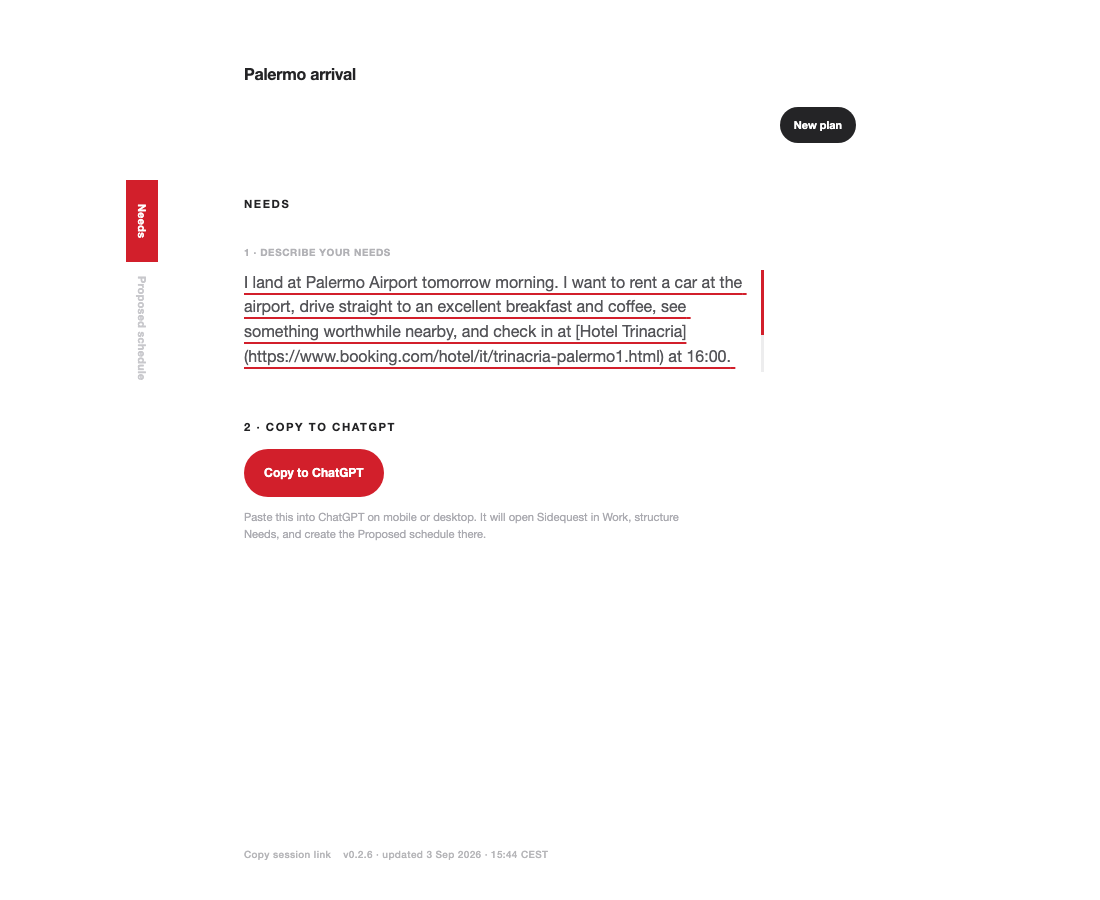
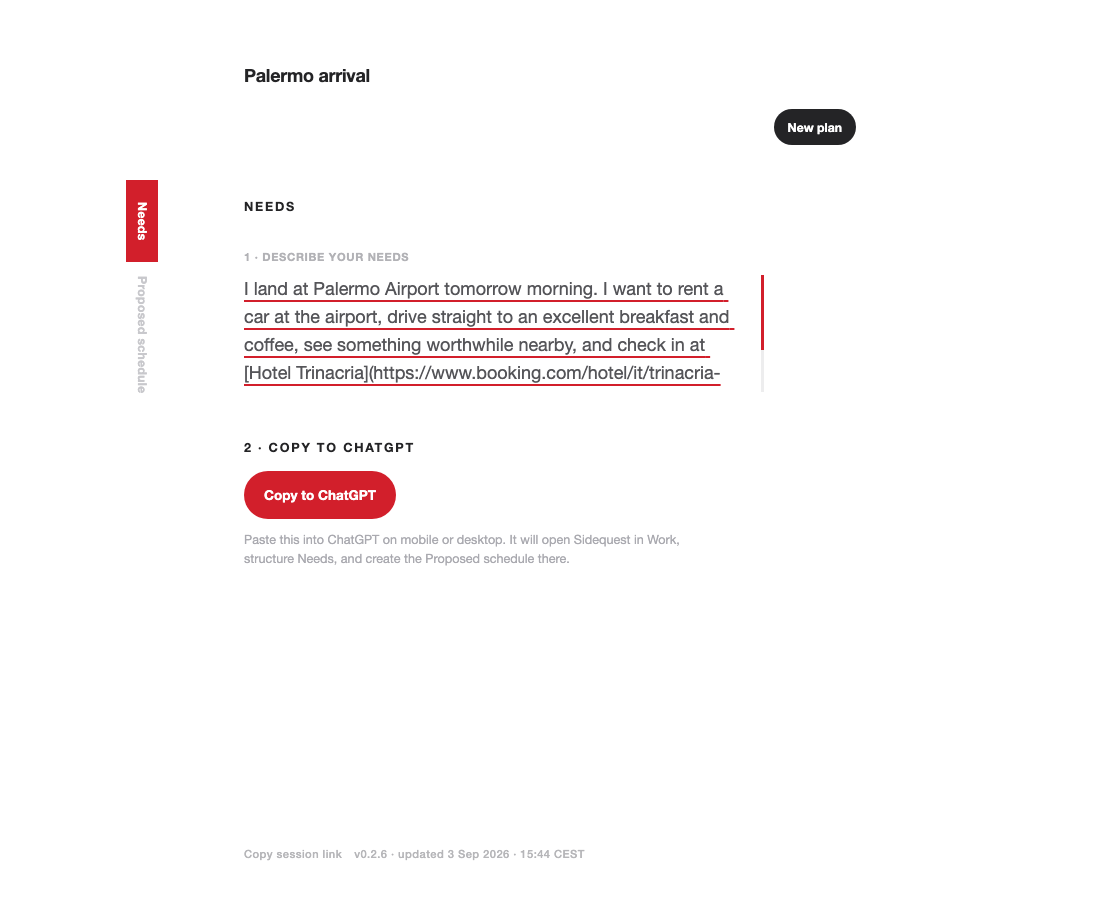
fix: enforce prompt language and scale desktop type

diff --git a/src/copy.ts b/src/copy.ts
@@ -39,10 +39,12 @@ export const COPY = {
     "Example: I land in Palermo tomorrow morning. Find a rental car, great breakfast and coffee, one nearby sight, parking, and get me to my hotel by 16:00.",
   planningInstruction:
     "Your only goal is to create the most sensible plan that satisfies the person's Needs as completely as possible. If essential information is missing, ask concise clarifying questions before writing. Otherwise, if the snapshot contains needs, treat them as the current user-edited source of truth; if it does not, extract concise Needs from the free-form brief. Infer and set the plan date and starting location from the request. Use the concise primary city or area where most schedule activity happens as currentLocation.label, while keeping its coordinates at the practical route starting point. Choose a short, specific, playful title for the generated plan rather than a generic destination/day label. Call update_day_context with needs, the retained brief, and replacePlan: true. Preserve locked commitments and mark non-negotiable needs as fixed. Research suitable places, then generate a Proposed schedule on the Sidequest board. Existing unlocked schedule items are replaceable suggestions, not requirements. After updating, give the person the exact clickable session link specified below and say they can edit Needs there for another iteration.",
+  promptLanguage:
+    "LANGUAGE REQUIREMENT: Use only the primary language of the person's free-form brief or Needs in the planning input for every message you send. Do not follow the language of the surrounding conversation, UI, inferred profile, or locale. Ignore earlier messages when choosing the response language. English planning input requires every message to be in English. Polish planning input requires every message to be in Polish. Use that language for all communication, including questions, progress updates, tool-use narration, and the final response. Do not narrate in one language while writing the plan in another. Keep proper names, source titles, and exact tool-returned values unchanged. Do not translate the exact session link.",
   promptOpen:
     "Open {url}, continue in Work, and use its Site Tools. Do not stop after explaining that Work or Site Tools are required; complete the requested changes on the Sidequest board, not only in chat.",
   promptProtocol:
-    "Call get_mission_state as soon as the page opens, before any write. The JSON below is the copied planning input. If the live board is blank, bootstrap it from the copied planning input using the live revision. Do not discard the copied brief just because its revision differs from a newly opened browser. If the live board already contains work for this request, preserve its current Needs and locked commitments. After each write, use the returned revision for the next write. Write all user-facing questions, progress summaries, and the final response in the same language as the person's free-form brief or latest Needs request. If the request mixes languages or is ambiguous, use the language of the person's latest message. Keep proper names, source titles, and exact tool-returned values unchanged. Every successful read or write returns a sessionUrl containing the complete current board. Do not translate the exact session link. After the final successful write, end your response with [Open updated Sidequest plan](sessionUrl), replacing sessionUrl with the exact returned URL. If no write was needed, use the URL returned by the final read. Do not finish without the clickable link.",
+    "Call get_mission_state as soon as the page opens, before any write. The JSON below is the copied planning input. If the live board is blank, bootstrap it from the copied planning input using the live revision. Do not discard the copied brief just because its revision differs from a newly opened browser. If the live board already contains work for this request, preserve its current Needs and locked commitments. After each write, use the returned revision for the next write. Every successful read or write returns a sessionUrl containing the complete current board. After the final successful write, end your response with [Open updated Sidequest plan](sessionUrl), replacing sessionUrl with the exact returned URL. If no write was needed, use the URL returned by the final read. Do not finish without the clickable link.",
   promptSnapshot: "Planning input at copy time:",
   release: "v0.2.6",
   updated: "updated",

diff --git a/src/copy.test.ts b/src/copy.test.ts
@@ -4,22 +4,34 @@ import { COPY, SIDEQUEST_URL } from "./copy"
 
 describe("English product copy", () => {
   it("keeps the agent handoff and mission positioning explicit", () => {
+    const allCopy = Object.values(COPY).join(" ")
+
     expect(COPY.tagline).toBe("Your day changed. Your plan should too.")
     expect(COPY.contextTitle).toBe("Needs")
     expect(COPY.planTitle).toBe("Proposed schedule")
     expect(COPY.planningBrief).toBe("1 · Describe your needs")
     expect(COPY.handoffTitle).toBe("2 · Copy to ChatGPT")
     expect(COPY.constraintsTitle).toBe("3 · Review and edit needs")
-    expect(Object.values(COPY).join(" ")).not.toContain("Must-haves")
+    expect(allCopy).not.toContain("Must-haves")
     expect(COPY.promptOpen).toContain("not only in chat")
     expect(COPY.promptOpen).toContain("continue in Work")
     expect(COPY.promptProtocol).toContain("If the live board is blank")
     expect(COPY.promptProtocol).toContain("sessionUrl")
     expect(COPY.promptProtocol).toContain("[Open updated Sidequest plan]")
-    expect(COPY.promptProtocol).toContain(
-      "same language as the person's free-form brief or latest Needs request",
+    expect(allCopy).toContain("LANGUAGE REQUIREMENT")
+    expect(allCopy).toContain(
+      "Do not follow the language of the surrounding conversation",
     )
-    expect(COPY.promptProtocol).toContain(
+    expect(allCopy).toContain(
+      "English planning input requires every message to be in English",
+    )
+    expect(allCopy).toContain(
+      "Polish planning input requires every message to be in Polish",
+    )
+    expect(allCopy).toContain(
+      "Do not narrate in one language while writing the plan in another",
+    )
+    expect(allCopy).toContain(
       "proper names, source titles, and exact tool-returned values unchanged",
     )
     expect(COPY.planningInstruction).toContain("generate a Proposed schedule")

diff --git a/e2e/sidequest.spec.ts b/e2e/sidequest.spec.ts
@@ -189,6 +189,9 @@ test("edits Needs and copies the current handoff", async ({ page }) => {
   await page.setViewportSize({ height: 900, width: 1100 })
   await page.goto("/")
   await waitForTools(page)
+  expect(
+    await page.evaluate(() => getComputedStyle(document.documentElement).fontSize),
+  ).toBe("18px")
   await expect(page.getByRole("tab", { name: "Proposed schedule" }))
     .toHaveAttribute("aria-disabled", "true")
   await selectExample(page, /Palermo arrival/)
@@ -243,6 +246,9 @@ test("edits Needs and copies the current handoff", async ({ page }) => {
   expect(initialCopyButtonStyle.height).toBeGreaterThanOrEqual(44)
   await page.screenshot({ fullPage: true, path: "artifacts/sidequest-brief.png" })
   await page.setViewportSize({ height: 844, width: 390 })
+  expect(
+    await page.evaluate(() => getComputedStyle(document.documentElement).fontSize),
+  ).toBe("16px")
   await expect
     .poll(() => page.evaluate(() => document.documentElement.scrollWidth))
     .toBeLessThanOrEqual(390)

diff --git a/src/mission-prompt.test.ts b/src/mission-prompt.test.ts
@@ -91,11 +91,16 @@ describe("mission prompt", () => {
     mission.context.brief = "Find great coffee before my flight."
     const prompt = toMissionPrompt(mission)
 
+    expect(prompt).toMatch(/^LANGUAGE REQUIREMENT:/u)
     expect(prompt).toContain(
-      "all user-facing questions, progress summaries, and the final response",
+      "Use only the primary language of the person's free-form brief or Needs",
+    )
+    expect(prompt).toContain("Ignore earlier messages")
+    expect(prompt).toContain(
+      "English planning input requires every message to be in English",
     )
     expect(prompt).toContain(
-      "use the language of the person's latest message",
+      "including questions, progress updates, tool-use narration, and the final response",
     )
     expect(prompt).toContain("Do not translate the exact session link")
   })

diff --git a/src/mission-prompt.ts b/src/mission-prompt.ts
@@ -25,6 +25,7 @@ const planningNeedsFor = (mission: Mission) => {
 
 export const toMissionPrompt = (mission: Mission) =>
   [
+    COPY.promptLanguage,
     COPY.promptOpen.replace("{url}", `${SIDEQUEST_URL}/needs`),
     COPY.planningInstruction,
     COPY.promptProtocol,

diff --git a/src/app.css b/src/app.css
@@ -758,6 +758,12 @@ textarea:focus-visible {
   line-height: 1.35;
 }
 
+@media (min-width: 561px) {
+  html {
+    font-size: 18px;
+  }
+}
+
 @media (max-width: 560px) {
   .app-shell {
     padding: 0 26px 130px 54px;

diff --git a/docs/implementation-todo.md b/docs/implementation-todo.md
@@ -38,8 +38,9 @@
 - [x] 17. Make Proposed schedule a read-only expandable result
 - [x] 18. Align the add-Need interaction with the list
 - [x] 19. Transfer a complete session through a shareable URL
-- [x] 20. Keep ChatGPT's response in the person's language
-- [~] 21. Make daymaker.fun the production domain
+- [~] 20. Keep ChatGPT's response in the person's language
+- [x] 21. Make daymaker.fun the production domain
+- [~] 22. Raise the desktop typography scale
 
 ## Blocking decisions accepted in this plan
 
@@ -1181,7 +1182,7 @@ Implementation result:
   608-character link for revision 1; a separate empty browser imported it at
   `/schedule`, stored revision 1, and cleaned the fragment from the address.
 
-### 20 [x] Keep ChatGPT's response in the person's language
+### 20 [~] Keep ChatGPT's response in the person's language
 
 Description: Make the copied planning protocol keep questions, progress
 summaries, and the final answer in the language of the person's request, even
@@ -1197,6 +1198,13 @@ Acceptance criteria:
   unchanged, including the final clickable session URL.
 - AC-4: The rule is defined once in the English-only `src/copy.ts` source of
   truth; no parallel locale state or UI localization mechanism is introduced.
+- AC-5: The language rule is the first instruction in the copied handoff and
+  explicitly ignores surrounding conversation, earlier messages, UI locale,
+  and inferred profile language. English planning input makes every message
+  English; Polish planning input makes every message Polish, including
+  questions, progress, tool-use narration, and the final response.
+- AC-6: The agent is explicitly forbidden from narrating in one language while
+  generating plan content in another.
 
 Tests:
 
@@ -1206,6 +1214,9 @@ Tests:
 - AC-1/2/3 -> integration: `mission-prompt.test.ts > keeps the agent response
   in the person's request language` verifies that the complete copied prompt
   carries the fallback and preservation rules.
+- AC-5/6 -> integration: the same test verifies first-position precedence and
+  the whole-message English/Polish contract against conversation-language
+  leakage.
 - A separate translation/codegen gate is skipped because P0 has one declared
   UI locale and the change instructs the external agent how to select its
   response language; it does not add a localized UI string catalog.
@@ -1244,8 +1255,25 @@ Implementation result:
   and is aliased at `https://sidequest-webmcp-eta.vercel.app`. Public asset
   `index-BQQJgeUW.js` contains v0.2.5, both language-selection rules, and the
   exact-session-link preservation rule.
+- Regression reopened after a real English demo handoff still produced Polish
+  narration about creating an English plan. The initial wording governed plan
+  output but did not override the surrounding conversation strongly enough.
+- Regression red: `npm run test -- src/copy.test.ts src/mission-prompt.test.ts`
+  passed the five existing assertions and failed the two strengthened language
+  assertions because the handoff did not start with a mandatory language rule.
+- Regression green: the same focused command passed 7/7 after one dedicated
+  language paragraph became the first handoff instruction. It now governs all
+  questions, progress updates, tool-use narration, and the final response and
+  explicitly forbids cross-language narration.
+- The combined post-regression gate passed 74/74 Vitest tests, strict build,
+  and 5/5 Chromium flows.
+- Mature-TypeScript follow-up round 1 still introduced no language state.
+  Round 2 moved the contract to the first handoff boundary instead of relying
+  on late protocol prose. Round 3 kept it in the existing copy module. Round 4
+  removed the weaker duplicated wording from `promptProtocol`. Round 5 changed
+  no React state, component, effect, or physical module boundary.
 
-### 21 [~] Make daymaker.fun the production domain
+### 21 [x] Make daymaker.fun the production domain
 
 Description: Attach the purchased `daymaker.fun` domain to the existing Vercel
 project, preserve the current deployment alias, and make the custom HTTPS origin
@@ -1298,6 +1326,71 @@ Implementation result:
   Round 3 rejected a second environment/config service for one public constant.
   Round 4 required no new helper, wrapper, type, or cast. Round 5 required no
   React component, state, effect, or renderer change.
+- Production deployment `dpl_92b8LT2S8THNCzxCw1iHwp8xj8ZS` reached `READY`
+  with `https://daymaker.fun` as its alias. The apex passes Vercel domain
+  verification and serves HTTP 200 over a valid certificate; public asset
+  `index-BvipF-GN.js` contains v0.2.6 and the canonical custom origin.
+- Hover retains its existing MX record. The obsolete `* -> 216.40.34.41`
+  placeholder was removed after it conflicted with the exact `www` CNAME.
+- `www.daymaker.fun` passed Vercel verification through its exact CNAME, received
+  renewable certificate `cert_WWZgc9o4ghNPv0uy3VSVG3JP`, and loaded the live
+  `/needs` app in the browser. Both Vercel edge addresses returned HTTP 200 with
+  certificate validation for the `www` host.
+
+### 22 [~] Raise the desktop typography scale
+
+Description: Give the wide-screen interface a more confident contemporary
+type scale while preserving the existing compact mobile layout and strict
+minimal visual language.
+
+Acceptance criteria:
+
+- AC-1: At widths above 560px, the root type scale is 18px so existing rem-based
+  headings, schedule rows, Needs, metadata, and actions grow proportionally.
+- AC-2: At 390px, the root scale remains 16px and the page keeps zero horizontal
+  overflow.
+- AC-3: The change adds no border, gradient, decorative shadow, new animation,
+  or component-specific font override.
+- AC-4: Desktop and mobile screenshots show readable text without clipping,
+  overlap, or viewport bleed.
+
+Tests:
+
+- AC-1/2 -> browser: `sidequest.spec.ts > edits Needs and copies the current
+  handoff` asserts the computed root size at 1100px and 390px plus the existing
+  mobile overflow contract.
+- AC-3 -> review: focused CSS diff contains one responsive root declaration.
+- AC-4 -> browser evidence: `artifacts/sidequest-brief.png` and
+  `artifacts/sidequest-brief-mobile.png`.
+- Unit coverage is skipped because this is a CSS rendering contract; the real
+  Chromium computed style and screenshots exercise the affected boundary.
+
+Sources/References: `src/app.css`, `e2e/sidequest.spec.ts`, existing visual
+evidence under `artifacts/`.
+
+Before implementation gate:
+
+- [x] Scope fixed to the desktop root scale; no component or domain contract
+  changes.
+- [x] Named computed-style assertion observed red before the CSS change.
+
+Implementation result:
+
+- Behavioral red: `npx playwright test -g "edits Needs and copies the current
+  handoff"` failed on the new desktop assertion with `Expected: 18px`,
+  `Received: 16px` before the production CSS changed.
+- Focused green: the same real Chromium flow passed with an 18px desktop root,
+  16px mobile root, and no 390px overflow.
+- Full gate: 74/74 Vitest tests, strict TypeScript/Vite build, and 5/5 Chromium
+  flows passed. `artifacts/sidequest-brief.png` and its mobile counterpart were
+  inspected with no clipping, overlap, or viewport bleed.
+- Frontend-design kept the chosen direction brutally minimal: one responsive
+  root scale raises the complete hierarchy without component overrides,
+  additional decoration, or new motion.
+- Mature-TypeScript rounds 1–2 found no domain/view state or action boundary to
+  change; round 3 kept ownership in the existing stylesheet; round 4 retained
+  one direct media query rather than a helper or token layer; round 5 introduced
+  no React component, context, memoization, or effect.
 
 ## Risks and dependencies
 

diff --git a/README.md b/README.md
@@ -11,7 +11,7 @@ This repository is an English-only entry for [The WebMCP Challenge](https://webm
 - Production URL: [daymaker.fun](https://daymaker.fun)
 - Public repository: [github.com/gmoskal/sidequest-webmcp](https://github.com/gmoskal/sidequest-webmcp)
 - Local release: v0.2.6
-- Production deployment: v0.2.5 live; v0.2.6 pending
+- Production deployment: v0.2.6 live
 - Automatic Git deployments: pending GitHub/Vercel repository permission
 - Demo video: pending
 - License: MIT
@@ -144,6 +144,7 @@ Automated tests use a native-shaped `document.modelContext.registerTool` harness
 - [x] Deploy v0.2.3 and verify the read-only schedule asset.
 - [x] Deploy v0.2.4 and verify portable session transfer in a separate browser context.
 - [x] Deploy v0.2.5 and verify the response-language contract in the public asset.
+- [x] Deploy v0.2.6 and verify `daymaker.fun` over HTTPS.
 - [ ] Open the production page in ChatGPT with Site Tools and paste a copied Needs handoff.
 - [ ] Confirm all five tools are discoverable in a compatible Chrome build.
 - [ ] Confirm the generated proposal updates visibly and survives reload.
